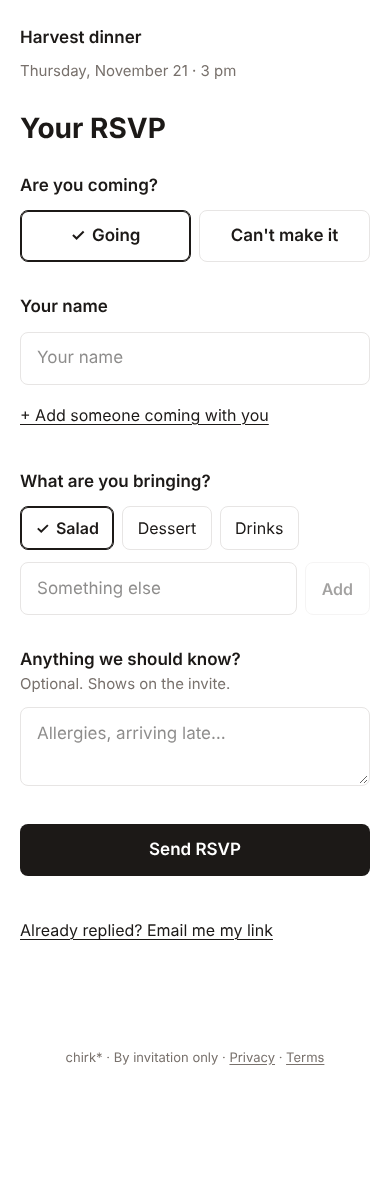
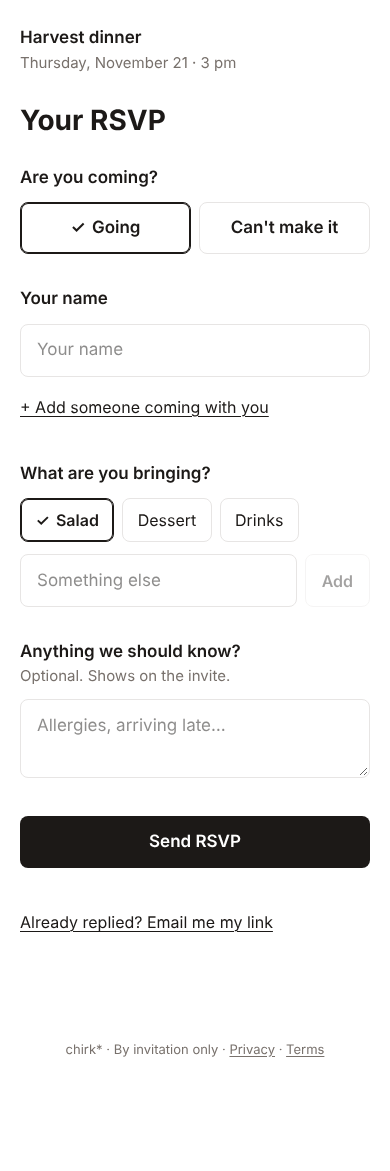
Guest flow at Safari's largest zoom: long words wrap, schedule stacks when narrow, email rows wrap; a11y check at 130px
Claude-Session: https://claude.ai/code/session_01QEhNiqdcSBmSfKonPFu65E

diff --git a/src/components/EmailMyLink.tsx b/src/components/EmailMyLink.tsx
@@ -9,8 +9,8 @@ export function EmailMyLink({ slug }: { slug: string }) {
   return (
     <details className="text-[16px]">
       <summary className="link tap cursor-pointer list-none [&::-webkit-details-marker]:hidden">Already replied? Email me my link</summary>
-      <form action={action} className="mt-2 flex gap-2">
-        <input name="email" type="email" inputMode="email" autoComplete="email" required placeholder="you@example.com" className="field" aria-label="Your email" />
+      <form action={action} className="mt-2 flex flex-wrap gap-2">
+        <input name="email" type="email" inputMode="email" autoComplete="email" required placeholder="you@example.com" className="field min-w-0 flex-[1_1_10rem]" aria-label="Your email" />
         <button className="button-quiet shrink-0 min-h-[3.2rem]" disabled={pending}>{pending ? "Sending…" : "Send"}</button>
       </form>
       {message && <p role="status" className="mt-2 text-[15px] text-soft">{message}</p>}

diff --git a/src/components/YourLink.tsx b/src/components/YourLink.tsx
@@ -27,8 +27,8 @@ export function KeepLink({ slug, token, email }: { slug: string; token: string; 
       ) : (
         <>
           <p className="mt-0.5 text-[15px] text-soft">Email yourself the link to change your reply from another device.</p>
-          <form action={action} className="mt-3 flex gap-2">
-            <input name="email" type="email" inputMode="email" autoComplete="email" required defaultValue={email ?? ""} placeholder="you@example.com" className="field" aria-label="Your email" />
+          <form action={action} className="mt-3 flex flex-wrap gap-2">
+            <input name="email" type="email" inputMode="email" autoComplete="email" required defaultValue={email ?? ""} placeholder="you@example.com" className="field min-w-0 flex-[1_1_10rem]" aria-label="Your email" />
             <button className="button-quiet shrink-0 min-h-[3.2rem]" disabled={pending}>{pending ? "Sending…" : "Send"}</button>
           </form>
         </>

diff --git a/src/components/RsvpForm.tsx b/src/components/RsvpForm.tsx
@@ -168,9 +168,9 @@ export function RsvpForm({ slug, bringPrompt, askKids, notePrompt, noteHint, all
               </div>
               {allowOwn && (
                 <>
-              <div className="mt-3 flex gap-2">
+              <div className="mt-3 flex flex-wrap gap-2">
                 <input
-                  className="field" value={typing} placeholder="Something else" aria-label="Add your own" autoFocus={ownFirst}
+                  className="field min-w-0 flex-[1_1_10rem]" value={typing} placeholder="Something else" aria-label="Add your own" autoFocus={ownFirst}
                   onChange={(e) => setTyping(e.target.value)}
                   onKeyDown={(e) => { if (e.key === "Enter") { e.preventDefault(); addOwn(typing); } }}
                 />

diff --git a/src/components/EventView.tsx b/src/components/EventView.tsx
@@ -32,7 +32,7 @@ export function EventView({ data, rsvp, rsvpHref, greeting }: { data: EventData;
         )}
         {event.hosted_by && !event.details && <p className="mt-1 text-[17px] text-soft">Hosted by {event.hosted_by}</p>}
         {stages.length > 0 && (
-          <ul className="mt-4 grid grid-cols-[auto_1fr] gap-x-4 gap-y-1 text-[17px]">
+          <ul className="mt-4 grid grid-cols-[auto_minmax(0,1fr)] gap-x-4 gap-y-1 text-[17px] max-[240px]:grid-cols-1">
             {stages.map((s, i) => (
               <li key={i} className={`contents ${s.main ? "font-bold" : ""}`}>
                 <span className={`tabular-nums ${s.main ? "" : "text-soft"}`}>{s.when}</span><span>{s.what}</span>

diff --git a/src/app/globals.css b/src/app/globals.css
@@ -103,6 +103,9 @@ input[type="checkbox"], input[type="radio"] { accent-color: var(--color-ink); }
   &[aria-pressed="true"]::before { content: "✓"; }
 }
 
+/* Long words (a title like "Thanksgiving" at Safari's 300% zoom) wrap instead of pushing the page sideways. */
+.guest { overflow-wrap: break-word; }
+.guest h1 { hyphens: auto; }
 .guest .field { border-radius: 8px; }
 .guest .field:focus { border-color: var(--color-accent); }
 /* One visible focus ring for keyboard users, in the accent (ink for now). */

diff --git a/docs/A11Y_CHECKS.md b/docs/A11Y_CHECKS.md
@@ -11,7 +11,7 @@ Runs on fixed fixture events (`scripts/fixtures.mjs`, the same ones as the visua
 - **Text contrast** ≥ 4.5:1 (3:1 for large text), against the real background.
 - **One h1**, and the heading outline.
 - **Keyboard**: Tab through the page; every stop shows a visible focus ring (outline, or a field's border change).
-- **320px wide**: no sideways scroll.
+- **320px wide and 130px wide** (an iPhone at Safari's largest, 300%, zoom): no sideways scroll.
 - **Reduced motion**: nothing animates.
 - `<html lang>` and a page title.
 
@@ -25,6 +25,17 @@ Runs on fixed fixture events (`scripts/fixtures.mjs`, the same ones as the visua
 | "No visible focus" on text fields | a false alarm in the script: fields show focus by changing their border; the check now compares focused vs. resting |
 
 Now: **no issues on any of the five screens.** Contrast, names, headings, keyboard order, 320px reflow and reduced motion all passed on the first run.
+
+## Real iPhone results (Hudson, Nov 18)
+
+| Check | Result |
+|---|---|
+| Safari AutoFill on "Your name" | ✓ fine: a name suggestion, nothing in the way |
+| No zoom when typing | ✓ |
+| Still needed → RSVP with the item picked | ✓ |
+| Add to calendar | ✓ "perfect" |
+| Largest Safari zoom (300%) | ✗ **found a bug**: "Thanksgiving" and the schedule ran off the right edge and the page scrolled sideways. **Fixed**: long words wrap (`.guest { overflow-wrap: break-word }`, hyphenated titles), the schedule's text column can shrink and stacks (time above, text below) when the page is under 240px wide, and the email + Send rows wrap. The a11y script now checks 130px wide too, so this can't come back unnoticed. |
+| VoiceOver | skipped for now |
 
 ## On a real iPhone (Hudson, ~10 minutes)
 

diff --git a/STATUS.md b/STATUS.md
@@ -16,7 +16,7 @@ Everything up to Nov 16's "fixes-3":
 
 ## Waiting to go live (branch `a11y`)
 - **Accessibility pass on the guest flow** (`docs/A11Y_CHECKS.md`, `node scripts/a11y.mjs`): tap targets, names, contrast, headings, keyboard focus, 320px, reduced motion. Fixed: two links under 44px (the RSVP page's event name, "Pick something to bring"), and the confirmation's event name is now a heading. Everything else passed. Baselines re-captured.
-- **Real-iPhone checklist** for Hudson in `docs/A11Y_CHECKS.md` (Safari AutoFill, no zoom on typing, larger text, VoiceOver order/headings/selected states).
+- **Real iPhone (Hudson):** AutoFill, no zoom on typing, Still needed → RSVP and Add to calendar all ✓. **Safari's largest zoom broke the layout** (long title and schedule ran off the screen): fixed (long words wrap, the schedule stacks under 240px, email rows wrap) and the a11y script now checks 130px wide. VoiceOver still to try (`docs/A11Y_CHECKS.md`).
 
 ## Went live Nov 18 (`b2-counts`)
 - **B2 fixed (Message your guests):** the Going / Haven't replied / Everyone choices no longer show a bare email count ("Going · 0" when 3 were going). One quiet line says delivery for the chosen group: "2 emails · 3 need a text".
